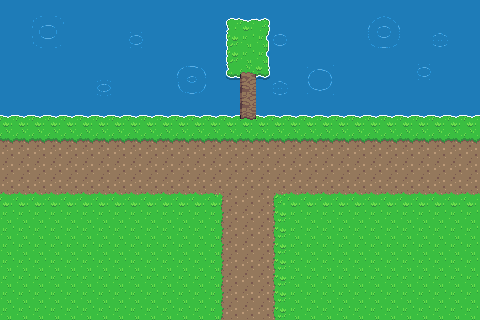
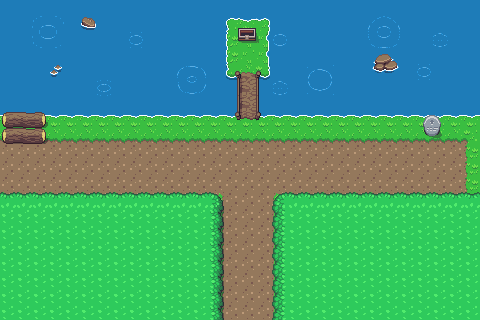
Added textures for the snake ennemy and it's animations and corrected a bug with ennemies not letting the player save while they were hit.

diff --git a/main.py b/main.py
@@ -1,3 +1,5 @@
+import time
+
 import pygame
 import json
 from os.path import exists
@@ -7,7 +9,7 @@ pygame.init()
 pygame_icon = pygame.image.load('./resources/gui/icon.png')
 pygame.display.set_icon(pygame_icon)
 pygame.display.set_caption("ZeldaNSI")
-screen = pygame.display.set_mode((1366, 912) , flags=pygame.FULLSCREEN | pygame.NOFRAME)
+screen = pygame.display.set_mode((1366, 912))  # , flags=pygame.FULLSCREEN | pygame.NOFRAME)
 running = True
 clock = pygame.time.Clock()
 dt = 0
@@ -19,6 +21,8 @@ timeDelay = 30
 fontTitle = pygame.font.SysFont("arial", 75)
 fontButton = pygame.font.SysFont("arial", 30)
 mouseMask = pygame.mask.Mask((1, 1), True)
+pygame.mixer.music.set_volume(0.1)
+textToShow = []
 
 # Constants
 ICONS = {
@@ -27,6 +31,9 @@ ICONS = {
     "2/4Hearth": pygame.transform.scale_by(pygame.image.load("resources/gui/heart-2.png").convert_alpha(), 4),
     "1/4Hearth": pygame.transform.scale_by(pygame.image.load("resources/gui/heart-1.png").convert_alpha(), 4),
     "emptyHearth": pygame.transform.scale_by(pygame.image.load("resources/gui/empty_hearth.png").convert_alpha(), 4),
+    "bubble": pygame.transform.scale(pygame.image.load("resources/gui/bubble.png").convert_alpha(), (1366, 912 / 4)),
+    "chest_closed": pygame.transform.scale_by(pygame.image.load("resources/map/chest_closed.png").convert_alpha(), 4),
+    "chest_opened": pygame.transform.scale_by(pygame.image.load("resources/map/chest_opened.png").convert_alpha(), 4)
 }
 MAIN_MENU = {
     "background": pygame.transform.scale(pygame.image.load("resources/gui/full_heart.png").convert_alpha(),
@@ -41,6 +48,29 @@ TITLE_MUSIC = "resources/music/title_theme.mp3"
 
 PAUSE_MENU_BUTTONS = ((pygame.Rect(screen.get_width() / 2 - 150, 400, 300, 90), "Reprendre"),
                       (pygame.Rect(screen.get_width() / 2 - 150, 550, 300, 90), "Retourner au menu"))
+
+SNAKE_TEXTURES = [
+    pygame.transform.scale_by(pygame.image.load("resources/ennemies/snake/snake_idle1.png").convert_alpha(), 3),
+    pygame.transform.scale_by(pygame.image.load("resources/ennemies/snake/snake_idle2.png").convert_alpha(), 3),
+    pygame.transform.scale_by(pygame.image.load("resources/ennemies/snake/snake_idle3.png").convert_alpha(), 3),
+    pygame.transform.scale_by(pygame.image.load("resources/ennemies/snake/snake_idle4.png").convert_alpha(), 3),
+    pygame.transform.scale_by(pygame.image.load("resources/ennemies/snake/snake_walk1.png").convert_alpha(), 3),
+    pygame.transform.scale_by(pygame.image.load("resources/ennemies/snake/snake_walk2.png").convert_alpha(), 3),
+    pygame.transform.scale_by(pygame.image.load("resources/ennemies/snake/snake_walk3.png").convert_alpha(), 3),
+    pygame.transform.scale_by(pygame.image.load("resources/ennemies/snake/snake_walk4.png").convert_alpha(), 3),
+    pygame.transform.scale_by(pygame.image.load("resources/ennemies/snake/snake_attack1.png").convert_alpha(), 3),
+    pygame.transform.scale_by(pygame.image.load("resources/ennemies/snake/snake_attack2.png").convert_alpha(), 3),
+    pygame.transform.scale_by(pygame.image.load("resources/ennemies/snake/snake_attack3.png").convert_alpha(), 3),
+    pygame.transform.scale_by(pygame.image.load("resources/ennemies/snake/snake_attack4.png").convert_alpha(), 3),
+    pygame.transform.scale_by(pygame.image.load("resources/ennemies/snake/snake_attack5.png").convert_alpha(), 3),
+    pygame.transform.scale_by(pygame.image.load("resources/ennemies/snake/snake_attack6.png").convert_alpha(), 3),
+    pygame.transform.scale_by(pygame.image.load("resources/ennemies/snake/snake_hurt1.png").convert_alpha(), 3),
+    pygame.transform.scale_by(pygame.image.load("resources/ennemies/snake/snake_hurt2.png").convert_alpha(), 3),
+    pygame.transform.scale_by(pygame.image.load("resources/ennemies/snake/snake_death1.png").convert_alpha(), 3),
+    pygame.transform.scale_by(pygame.image.load("resources/ennemies/snake/snake_death2.png").convert_alpha(), 3),
+    pygame.transform.scale_by(pygame.image.load("resources/ennemies/snake/snake_death3.png").convert_alpha(), 3),
+    pygame.transform.scale_by(pygame.image.load("resources/ennemies/snake/snake_death4.png").convert_alpha(), 3),
+]
 
 PLAYER_CONSTS = {
     "playerTextures": (
@@ -130,6 +160,27 @@ playerInfos = {
     "ennemiesHit": [],
     "attackTimer": 0,
 }
+
+
+# World related objects
+def showMessageOnScreen(texts):
+    global textToShow
+    for txt in texts:
+        textToShow.append((txt, time.time() + 5))
+
+
+def openChest(id):
+    global worldInfos, playerInfos
+    if not worldInfos["chests"][worldInfos["worldIndex"]][id][1]:
+        if worldInfos["chests"][worldInfos["worldIndex"]][id][0][0] in playerInfos["objects"]:
+            playerInfos["objects"][worldInfos["chests"][worldInfos["worldIndex"]][id][0][0]] += \
+                worldInfos["chests"][worldInfos["worldIndex"]][id][0][1]
+        else:
+            playerInfos["objects"][worldInfos["chests"][worldInfos["worldIndex"]][id][0][0]] = \
+                worldInfos["chests"][worldInfos["worldIndex"]][id][0][1]
+        worldInfos["chests"][worldInfos["worldIndex"]][id][1] = True
+
+
 worldInfos = {"worldPos": pygame.Vector2(-200, -250),
               "worldIndex": 0,
               "music": ("resources/music/spawn_village_theme.mp3",
@@ -138,25 +189,27 @@ worldInfos = {"worldPos": pygame.Vector2(-200, -250),
                   pygame.transform.scale(pygame.image.load("./resources/map/spawn.png").convert_alpha(), (1766, 1177)),
                   pygame.transform.scale(pygame.image.load("./resources/map/map1.png").convert_alpha(),
                                          (1766, 1177))
-                  ),
+              ),
               "colliding": (
                   pygame.transform.scale(pygame.image.load("./resources/map/spawn_coll.png").convert_alpha(),
                                          (1766, 1177)),
                   pygame.transform.scale(pygame.image.load("./resources/map/map1_coll.png").convert_alpha(),
                                          (1766, 1177))
-                  ),
+              ),
               "foreground": (
                   pygame.transform.scale(pygame.image.load("./resources/map/spawn_fore.png").convert_alpha(),
                                          (1766, 1177)),
                   pygame.transform.scale(pygame.image.load("./resources/map/empty.png").convert_alpha(), (1766, 1177))
-                  ),
+              ),
               "collisions": [],
               "ennemiesForMap": ((), ()),
               "changeMapTriggers": (((pygame.mask.Mask((175, 15), True), 1, 605, 0, 1366 / 2, 870, -230, -265),),
                                     # tuple of tuples(map index) of tuples (mask, mapIndex, maskX, maskY, destPlayerX, destPlayerY, destMapX, destMapY)
                                     ((pygame.mask.Mask((175, 15), True), 0, 605, 900, 1366 / 2, 0, -230, 0),)),
-              "interactables":(# tuple of tuples(map index) of tuples (mask, action, maskX, maskY)
-                  (), ((pygame.mask.Mask((75, 75), True), print, 1555, 475), )) #TODO ceate action functions
+              "interactables": (  # tuple of tuples(map index) of tuples (mask, action, maskX, maskY)
+                  (), ((pygame.mask.Mask((75, 75), True), showMessageOnScreen, 1555, 475, ("test", "ligne2")),
+                       (pygame.mask.Mask((75, 75), True), openChest, 875, 125, 0))),
+              "chests": [[], [[("sword", 1), False, (875, 95)]]]
               }
 ennemiesList = []
 
@@ -192,7 +245,7 @@ def attack(player):
 
 def changeMap(world, player, ennemies, mapIndex,
               playerPos=pygame.Vector2(screen.get_width() / 2, screen.get_height() / 2),
-              worldPos=pygame.Vector2(-200, -200), spawnEnnemies=True, forceMusic = False):
+              worldPos=pygame.Vector2(-200, -200), spawnEnnemies=True, forceMusic=False):
     if world["worldIndex"] == mapIndex:
         return
 
@@ -217,16 +270,20 @@ def changeMap(world, player, ennemies, mapIndex,
             ennemies.append(ennemy)
 
 
-def createEnnemy(ennemies, life, rect, sprite, damage=10, viewDistance=100, reachDistance=15, timeToAttack=3):
+def createEnnemy(ennemies, type, life, rect, damage=10, viewDistance=100, reachDistance=15, timeToAttack=3):
     attributes = {
+        "type": type,
         "life": life,
         "damage": damage,
         "playerDetected": False,
         "viewDistance": viewDistance,
         "reachDistance": reachDistance,
         "rect": rect,
-        "sprite": sprite,
+        "animIndex": 0,
         "attackTimer": 0,
+        "attacking": False,
+        "animTimer": 0,
+        "hurtTimer": 0,
         "timeToAttack": timeToAttack
     }
     ennemies.append(attributes)
@@ -260,19 +317,24 @@ def manageEnnemies(ennemies, player, world):
                                                           ennemy["rect"].y + ennemy["rect"].height // 2)) <= ennemy[
             "reachDistance"]:
             ennemy["attackTimer"] += dt
+            if ennemy["attackTimer"] >= ennemy["timeToAttack"] - 0.45 and ennemy["type"] == 0:
+                ennemy["attacking"] = True
             if ennemy["attackTimer"] >= ennemy["timeToAttack"]:
                 ennemy["attackTimer"] = 0
                 player["life"] -= ennemy["damage"]
+        else:
+            ennemy["attackTimer"] = 0
 
 
 def manageControls(keys, player):
-    if keys[pygame.K_SPACE] and not player["attacking"]:
+    if keys[pygame.K_SPACE] and not player["attacking"] and "sword" in player["objects"]:
         player["attacking"] = True
         player["playerAnimIndex"] = 16 + player["playerDir"]
         attack(player)
 
     if keys[pygame.K_EQUALS]:
-        createEnnemy(ennemiesList, 100, pygame.Rect(player["playerPos"].__copy__(), (50, 50)), "TODO", 2, timeToAttack=1)
+        createEnnemy(ennemiesList,0, 100, pygame.Rect(player["playerPos"].__copy__(), (50, 50)), 2,
+                     timeToAttack=1)
 
     if keys[pygame.K_LSHIFT]:
         player["speed"] = 400
@@ -379,8 +441,47 @@ def manageDisplay(player, world, ennemies, needFlip):
     screen.blit(world["background"][world["worldIndex"]], world["worldPos"])
     screen.blit(world["colliding"][world["worldIndex"]], world["worldPos"])
 
+    for i in range(len(world["chests"][world["worldIndex"]])):
+        if world["chests"][world["worldIndex"]][i][1]:
+            screen.blit(ICONS["chest_opened"], (
+                world["chests"][world["worldIndex"]][i][2][0] + world["worldPos"][0] - 23,
+                world["chests"][world["worldIndex"]][i][2][1] + world["worldPos"][1] - 32))
+        else:
+            screen.blit(ICONS["chest_closed"], (
+                world["chests"][world["worldIndex"]][i][2][0] + world["worldPos"][0] - 23,
+                world["chests"][world["worldIndex"]][i][2][1] + world["worldPos"][1]))
+
     for ennemy in ennemies:
-        pygame.draw.rect(screen, (255, 0, 0), ennemy["rect"])
+        if ennemy["type"] == 0:
+            if ennemy["playerDetected"]:
+                index = 0 + ennemy["animIndex"]
+                if ennemy["hurtTimer"] > 0:
+                    index = 14 + ennemy["animIndex"]
+                    if ennemy["animIndex"] > 1:
+                        ennemy["animIndex"] = 0
+                    if ennemy["hurtTimer"] >= 2:
+                        ennemy["hurtTimer"] = 0
+                    else:
+                        ennemy["hurtTimer"] += dt
+                elif ennemy["attacking"]:
+                    index = 8 + ennemy["animIndex"]
+                    if ennemy["animIndex"] > 5:
+                        ennemy["animIndex"] = 0
+                        ennemy["attacking"] = False
+                elif abs(ennemy["rect"].x - player["playerPos"].x) > 30 or abs(ennemy["rect"].y - player["playerPos"].y) > 30:
+                    index = 4 + ennemy["animIndex"]
+                    if ennemy["animIndex"] > 3:
+                        ennemy["animIndex"] = 0
+                elif ennemy["animIndex"] > 3:
+                        ennemy["animIndex"] = 0
+                if ennemy["rect"].x <= player["playerPos"].x - 20:
+                    screen.blit(pygame.transform.flip(SNAKE_TEXTURES[index], True, False), (ennemy["rect"].x - 32, ennemy["rect"].y - 32))
+                else:
+                    screen.blit(SNAKE_TEXTURES[index], (ennemy["rect"].x - 32, ennemy["rect"].y - 32))
+        if ennemy["animTimer"] > 8:
+            ennemy["animIndex"] += 1
+            ennemy["animTimer"] = 0
+        ennemy["animTimer"] += 1
 
     playerPos = player["playerPos"].__copy__()
     playerPos.x -= 30
@@ -401,10 +502,11 @@ def manageDisplay(player, world, ennemies, needFlip):
         else:
             screen.blit(ICONS["emptyHearth"], (15 + 66 * hearts, 15))
 
-    if world["worldIndex"] == 1:
-        rect = world["interactables"][1][0].get_rect()
-        rect.move_ip((world["interactables"][1][2] + world["worldPos"][0], world["interactables"][1][3]+ world["worldPos"][1]))
-        pygame.draw.rect(screen, (255,255, 255), rect)
+    if len(textToShow) > 0:
+        screen.blit(ICONS["bubble"], (0, (3 / 4) * screen.get_height()))
+        for i in range(len(textToShow)):
+            img = fontButton.render(textToShow[i][0], True, "black")
+            screen.blit(img, (35, (3 / 4) * screen.get_height() + 15 + i * 50))
 
     if needFlip:
         pygame.display.flip()
@@ -435,9 +537,10 @@ def manageCollisions(player, world, ennemies):
             player["playerSpeed"].x = 0
 
     for ennemy in ennemies[:]:
-        if PLAYER_CONSTS["attackCollider"].colliderect(ennemy["rect"]) and not ennemy in player["ennemiesHit"]:
+        if PLAYER_CONSTS["attackCollider"].colliderect(ennemy["rect"]) and ennemy not in player["ennemiesHit"]:
             player["ennemiesHit"].append(ennemy)
             ennemy["life"] -= player["damage"]
+            ennemy["hurtTimer"] = 1
             if player["playerDir"] == 0:
                 ennemy["rect"].y += 50
             if player["playerDir"] == 1:
@@ -455,11 +558,6 @@ def manageCollisions(player, world, ennemies):
                                   player["playerPos"].y - mapTrigger[3] + 20)):
             changeMap(world, player, ennemies, mapTrigger[1], pygame.Vector2(mapTrigger[4], mapTrigger[5]),
                       pygame.Vector2(mapTrigger[6], mapTrigger[7]))
-    for interactable in world["interactables"][world["worldIndex"]]:
-        if interactable[0].overlap(PLAYER_CONSTS["playerCollision"][0],
-                                 (player["playerPos"].x - 7 - mapTrigger[2],
-                                  player["playerPos"].y - mapTrigger[3] + 20)):
-            interactable[1]("test")
 
 
 def manageMainMenu(menu, world, player, ennemies):
@@ -478,7 +576,7 @@ def manageMainMenu(menu, world, player, ennemies):
             pygame.draw.rect(screen, "red", button[0])
             img = fontButton.render(button[1], True, "white")
             screen.blit(img, (button[0].x + button[0].width / 2 - img.get_width() / 2,
-                          button[0].y + button[0].height / 2 - img.get_height() / 2))
+                              button[0].y + button[0].height / 2 - img.get_height() / 2))
         elif exists("save/save.json"):
             pygame.draw.rect(screen, "red", button[0])
             img = fontButton.render(button[1], True, "white")
@@ -487,7 +585,7 @@ def manageMainMenu(menu, world, player, ennemies):
         if button[0].topleft[0] <= pygame.mouse.get_pos()[0] <= button[0].bottomright[0] and button[0].topleft[1] <= \
                 pygame.mouse.get_pos()[1] <= button[0].bottomright[1] and pygame.mouse.get_pressed()[0]:
 
-            if button[1] == "Nouvelle partie" and timeDelay >= 15 :
+            if button[1] == "Nouvelle partie" and timeDelay >= 15:
                 isInMainMenu = False
                 isInPauseMenu = False
                 pygame.mixer.music.stop()
@@ -503,7 +601,7 @@ def manageMainMenu(menu, world, player, ennemies):
                 isInMainMenu = False
                 isInPauseMenu = False
                 pygame.mixer.music.stop()
-                loadGame(world, player)
+                loadGame()
                 pygame.mixer.music.load(world["music"][world["worldIndex"]])
                 pygame.mixer.music.play(-1, 0, 0)
                 changeMap(world, player, ennemies, world["worldIndex"], worldPos=pygame.Vector2(-200, -250))
@@ -549,29 +647,57 @@ def managePauseMenu(player, world, ennemies, buttons):
 
 
 def saveGame(world, player):
-    with open("save/save.json", "w") as file:
-        dict_prov = player.copy()
-        dict_prov["playerPos"] = (player["playerPos"].x, player["playerPos"].y)
-        dict_prov["playerSpeed"] = (0, 0)
-        dict_prov["worldIndex"] = world["worldIndex"]
-        dict_prov["worldPos"] = (world["worldPos"].x, world["worldPos"].y)
-        json.dump(dict_prov, file)
+    try:
+        with open("save/save.json", "w") as file:
+            dict_prov = player.copy()
+            dict_prov["playerPos"] = (player["playerPos"].x, player["playerPos"].y)
+            dict_prov["playerSpeed"] = (0, 0)
+            dict_prov["worldIndex"] = world["worldIndex"]
+            dict_prov["worldPos"] = (world["worldPos"].x, world["worldPos"].y)
+            dict_prov["chests"] = worldInfos["chests"]
+            del dict_prov["ennemiesHit"]
+            json.dump(dict_prov, file)
+            file.close()
+            print("Saved game")
+    except FileNotFoundError:
+        print("Save file was not found")
 
-def loadGame(world, player):
-    with open("save/save.json", "r") as file:
-        dict_prov = json.loads(file.read())
-        world["worldPos"] = pygame.Vector2(dict_prov["worldPos"][0], dict_prov["worldPos"][1])
-        world["worldIndex"] = dict_prov["worldIndex"]
-        player = dict_prov.copy()
-        player["playerPos"] = pygame.Vector2(dict_prov["playerPos"][0], dict_prov["playerPos"][1])
-        player["playerSpeed"] = pygame.Vector2(0, 0)
-        player["life"] = dict_prov["life"]
-        del player["worldIndex"], player["worldPos"]
+
+def loadGame():
+    global playerInfos, worldInfos
+    try:
+        with open("save/save.json", "r") as file:
+            dict_prov = json.loads(file.read())
+            worldInfos["worldPos"] = pygame.Vector2(dict_prov["worldPos"][0], dict_prov["worldPos"][1])
+            worldInfos["worldIndex"] = dict_prov["worldIndex"]
+            worldInfos["chests"] = dict_prov["chests"]
+            playerInfos = dict_prov.copy()
+            playerInfos["playerPos"] = pygame.Vector2(dict_prov["playerPos"][0], dict_prov["playerPos"][1])
+            playerInfos["playerSpeed"] = pygame.Vector2(0, 0)
+            playerInfos["life"] = dict_prov["life"]
+            playerInfos["ennemiesHit"] = []
+            del playerInfos["worldIndex"], playerInfos["worldPos"], playerInfos["chests"]
+            file.close()
+            print("Loaded save file")
+    except FileNotFoundError:
+        print("Save file was not found")
+
+
+def manageInteractables(world, player):
+    for interactable in world["interactables"][world["worldIndex"]]:
+        if interactable[0].overlap(PLAYER_CONSTS["playerCollision"][0],
+                                   (player["playerPos"].x - 7 - interactable[2] - world["worldPos"][0],
+                                    player["playerPos"].y - interactable[3] + 20 - world["worldPos"][1])):
+            interactable[1](interactable[4])
+
 
 while running:
     for event in pygame.event.get():
         if event.type == pygame.QUIT:
             running = False
+        if event.type == pygame.KEYDOWN:
+            if event.key == pygame.K_e:
+                manageInteractables(worldInfos, playerInfos)
 
     if pygame.key.get_pressed()[pygame.K_ESCAPE] and not isInMainMenu:
         if not isPauseKeyPressed:
@@ -598,6 +724,9 @@ while running:
         manageEnnemies(ennemiesList, playerInfos, worldInfos)
         manageDisplay(playerInfos, worldInfos, ennemiesList, True)
 
+    for text in textToShow.copy():
+        if text[1] < time.time():
+            textToShow.remove(text)
     dt = clock.tick(60) / 1000
     timeDelay += 1
 
